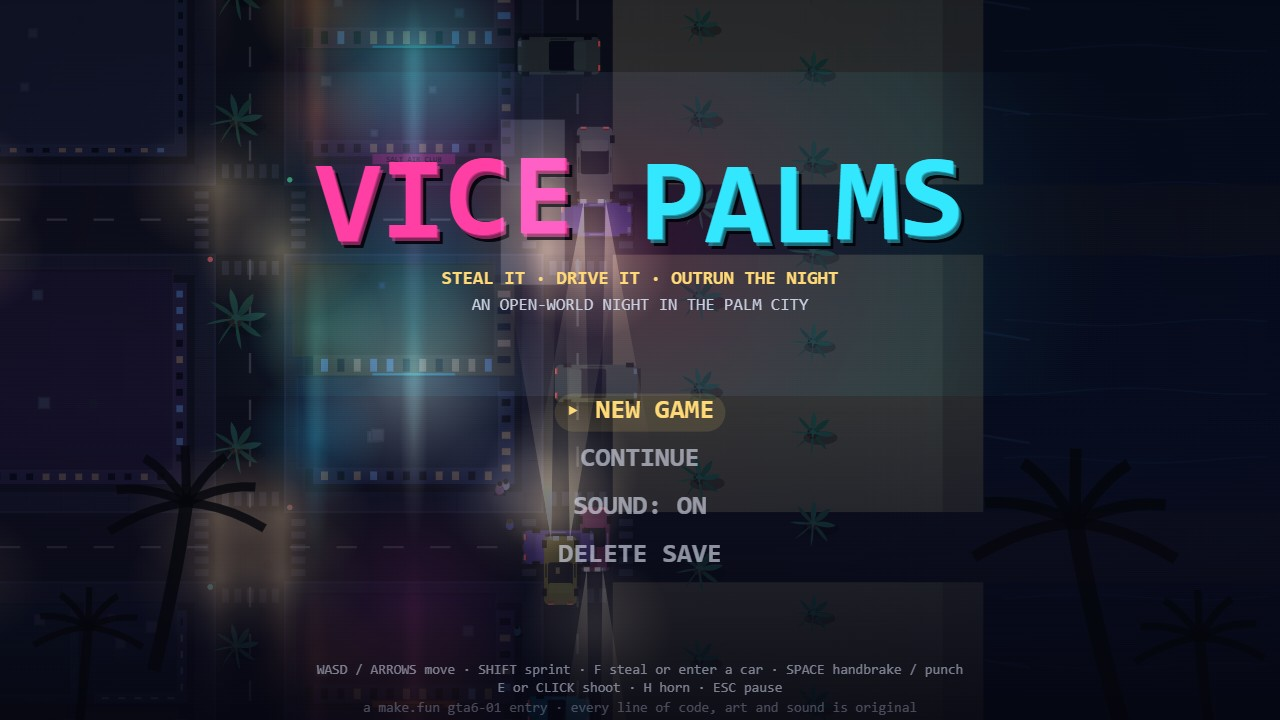
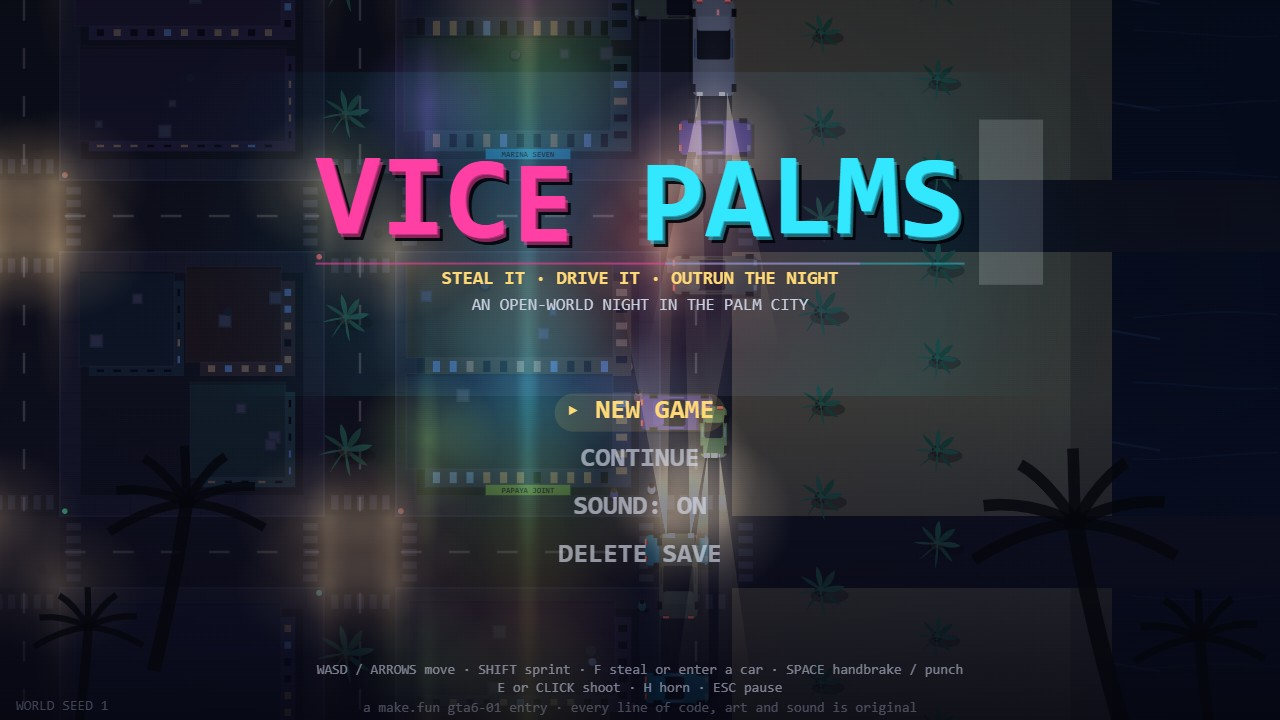
Retake 4 staged screenshots (recomposed start cover), README rewrite for the re-author pass

diff --git a/game/src/shots.js b/game/src/shots.js
@@ -30,9 +30,9 @@ export function stageShot(name, game, ui, seed) {
       if (score > best) { best = score; bestJ = j; }
     }
     const y = (bestJ + 0.5) * PITCH;
-    // The camera hangs out over the wet sand: the strip fills the left of the frame, the
-    // tide line cuts diagonally below, and the ocean haze closes the far right.
-    ui.cameraOverride = { x: GRID * PITCH + SAND * 0.55, y: y - 30, zoom: 0.8 };
+    // The camera hangs just off the beach kerb: the lit hotel strip fills the middle of the
+    // frame, headlights run the full height, and the wet sand closes the right edge.
+    ui.cameraOverride = { x: GRID * PITCH - 70, y: y - 30, zoom: 0.8 };
     game.player.x = GRID * PITCH - 96;
     game.player.y = y + 96;
     game.player.heading = Math.PI * 0.75;

diff --git a/game/src/render/menus.js b/game/src/render/menus.js
@@ -16,11 +16,11 @@ export class Menus {
   }
 
   title(ctx, W, H, ui) {
-    // Dim the drifting vista behind the lettering.
+    // Dim the drifting vista behind the lettering, but keep the neon reading through it.
     const g = ctx.createLinearGradient(0, 0, 0, H);
-    g.addColorStop(0, 'rgba(6,8,20,0.5)');
-    g.addColorStop(0.55, 'rgba(10,10,30,0.34)');
-    g.addColorStop(1, 'rgba(4,5,14,0.85)');
+    g.addColorStop(0, 'rgba(6,8,20,0.42)');
+    g.addColorStop(0.55, 'rgba(10,10,30,0.26)');
+    g.addColorStop(1, 'rgba(4,5,14,0.8)');
     ctx.fillStyle = g;
     ctx.fillRect(0, 0, W, H);
 

diff --git a/README.md b/README.md
@@ -38,16 +38,17 @@ the title menu can delete a save (press twice to confirm).
   officers chase the sidewalks and a cornered player on foot gets BUSTED. Line-of-sight decay
   lets a clean escape bleed stars (downed officers spot nothing).
 - Night lighting: base pass with full-strength emissives, an ambient multiply, and an additive
-  glow pass — lamp pools, headlight cones (dark when parked), brake-light flares, wet-asphalt
+  glow pass — lamp pools, headlight cones (dark when parked), brake and reverse lamps, wet-asphalt
   reflections, neon spill, sweeping police floodlights, firelight, and an orange blast flash
   with camera shake.
 - Missions: six chained story jobs (goto, steal-and-deliver, timed runs, collection, arson,
   a hot finale escape) with markers, fail/retry and cash payouts.
-- HUD: circular minimap with a north tick and police blips, health/armor bars, money, wanted
-  stars with an out-of-sight cooling cue, weapon readout, speedometer with gear, backed objective
-  plate and mission banners.
+- HUD: circular minimap with a north tick and police blips, health/armor bars, a money counter
+  that pulses on payout, wanted stars with an out-of-sight cooling cue, weapon readout,
+  speedometer with gear, backed objective plate and mission banners.
 - Sound: everything synthesized live with WebAudio — engine, siren, gunfire, explosions, tyre
-  screech, blips and a looping synthwave pad (all of it ducks properly when the game pauses).
+  screech, blips and a looping synthwave pad (all of it ducks properly when the game pauses,
+  and catching up after a pause skips the missed bars instead of stacking them).
 - Deterministic staging: `?shot=start|play|end|chaos&seed=N` builds a seeded scene and freezes
   one frame, which is how the four screenshots in `screenshots/` were taken. The title screen
   shows the world seed it is drifting across.
